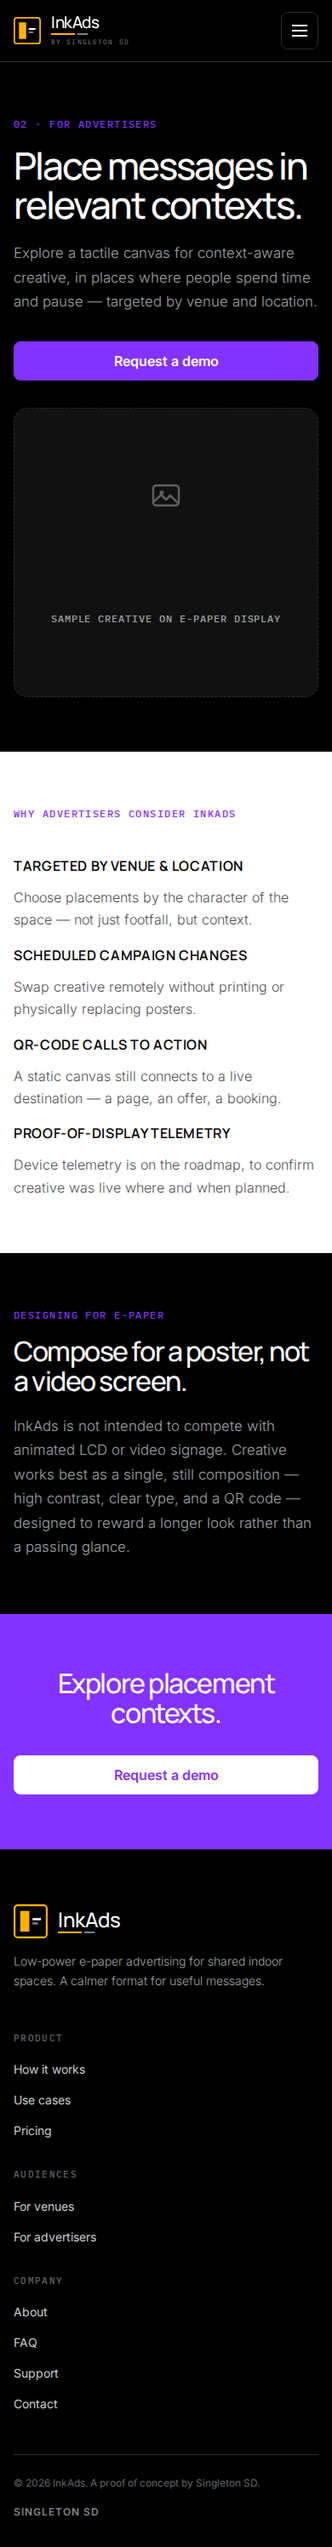
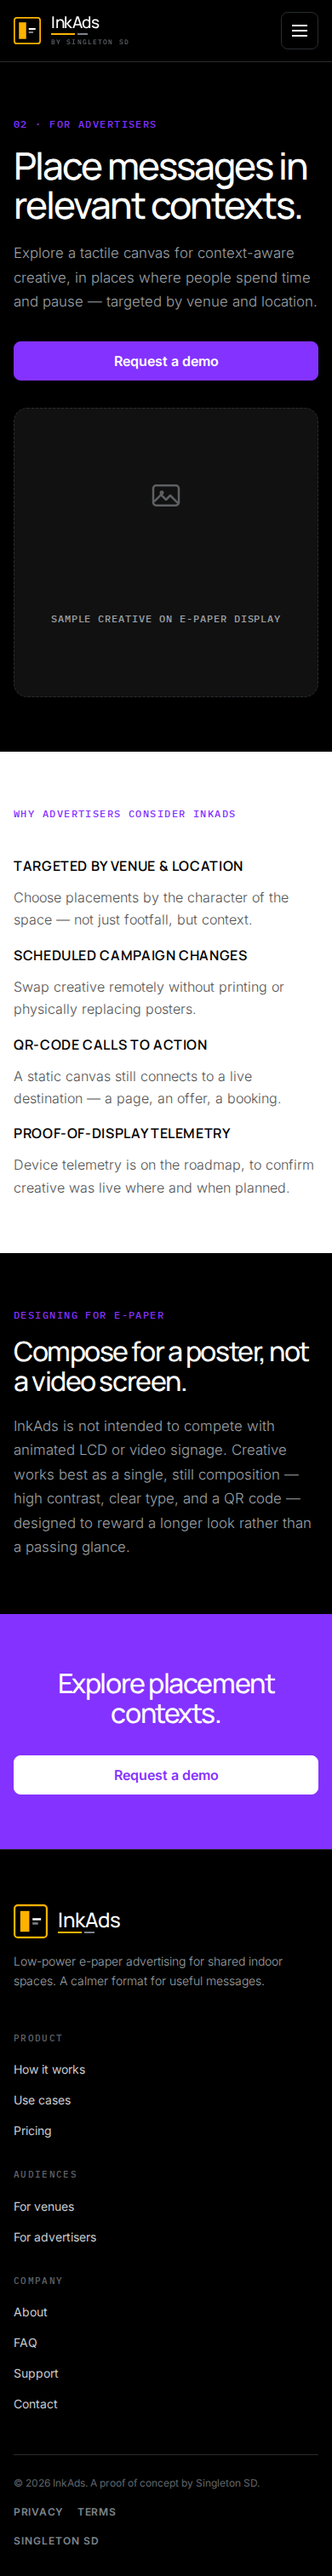
Deploy preview for PR 76 🛫

diff --git a/pr-preview/pr-76/visual/index.html b/pr-preview/pr-76/visual/index.html
@@ -59,95 +59,95 @@
       <button type="button" id="collapse-unchanged">Collapse unchanged</button>
     </p>
   </header>
-  <details class="route-case route-case--review" open>
-  <summary>/ · <span class="changed">14045 px changed</span> (desktop + mobile)</summary>
+  <details class="route-case route-case--unchanged">
+  <summary>/ · unchanged (desktop + mobile)</summary>
   <div class="route-case__body">
 <section class="viewport-case">
-  <h3>desktop · <span class="changed">343 px changed</span></h3>
+  <h3>desktop</h3>
   <div class="grid">
     <figure><figcaption>Base (before)</figcaption><img src="base/home-desktop.png" alt="base / desktop" /></figure>
     <figure><figcaption>PR (after)</figcaption><img src="pr/home-desktop.png" alt="pr / desktop" /></figure>
-    <figure><figcaption>Diff</figcaption><img src="diff/home-desktop.png" alt="diff / desktop" /></figure>
+    <figure><figcaption>Diff</figcaption><p class="ok">No pixel diff</p></figure>
   </div>
 </section>
 <section class="viewport-case">
-  <h3>mobile · <span class="changed">14045 px changed</span></h3>
+  <h3>mobile</h3>
   <div class="grid">
     <figure><figcaption>Base (before)</figcaption><img src="base/home-mobile.png" alt="base / mobile" /></figure>
     <figure><figcaption>PR (after)</figcaption><img src="pr/home-mobile.png" alt="pr / mobile" /></figure>
-    <figure><figcaption>Diff</figcaption><img src="diff/home-mobile.png" alt="diff / mobile" /></figure>
+    <figure><figcaption>Diff</figcaption><p class="ok">No pixel diff</p></figure>
   </div>
 </section>
   </div>
 </details>
-<details class="route-case route-case--review" open>
-  <summary>404 · <span class="changed">14045 px changed</span> (desktop + mobile)</summary>
+<details class="route-case route-case--unchanged">
+  <summary>404 · unchanged (desktop + mobile)</summary>
   <div class="route-case__body">
 <section class="viewport-case">
-  <h3>desktop · <span class="changed">343 px changed</span></h3>
+  <h3>desktop</h3>
   <div class="grid">
     <figure><figcaption>Base (before)</figcaption><img src="base/404-desktop.png" alt="base 404 desktop" /></figure>
     <figure><figcaption>PR (after)</figcaption><img src="pr/404-desktop.png" alt="pr 404 desktop" /></figure>
-    <figure><figcaption>Diff</figcaption><img src="diff/404-desktop.png" alt="diff 404 desktop" /></figure>
+    <figure><figcaption>Diff</figcaption><p class="ok">No pixel diff</p></figure>
   </div>
 </section>
 <section class="viewport-case">
-  <h3>mobile · <span class="changed">14045 px changed</span></h3>
+  <h3>mobile</h3>
   <div class="grid">
     <figure><figcaption>Base (before)</figcaption><img src="base/404-mobile.png" alt="base 404 mobile" /></figure>
     <figure><figcaption>PR (after)</figcaption><img src="pr/404-mobile.png" alt="pr 404 mobile" /></figure>
-    <figure><figcaption>Diff</figcaption><img src="diff/404-mobile.png" alt="diff 404 mobile" /></figure>
+    <figure><figcaption>Diff</figcaption><p class="ok">No pixel diff</p></figure>
   </div>
 </section>
   </div>
 </details>
-<details class="route-case route-case--review" open>
-  <summary>about · <span class="changed">14045 px changed</span> (desktop + mobile)</summary>
+<details class="route-case route-case--unchanged">
+  <summary>about · unchanged (desktop + mobile)</summary>
   <div class="route-case__body">
 <section class="viewport-case">
-  <h3>desktop · <span class="changed">343 px changed</span></h3>
+  <h3>desktop</h3>
   <div class="grid">
     <figure><figcaption>Base (before)</figcaption><img src="base/about-desktop.png" alt="base about desktop" /></figure>
     <figure><figcaption>PR (after)</figcaption><img src="pr/about-desktop.png" alt="pr about desktop" /></figure>
-    <figure><figcaption>Diff</figcaption><img src="diff/about-desktop.png" alt="diff about desktop" /></figure>
+    <figure><figcaption>Diff</figcaption><p class="ok">No pixel diff</p></figure>
   </div>
 </section>
 <section class="viewport-case">
-  <h3>mobile · <span class="changed">14045 px changed</span></h3>
+  <h3>mobile</h3>
   <div class="grid">
     <figure><figcaption>Base (before)</figcaption><img src="base/about-mobile.png" alt="base about mobile" /></figure>
     <figure><figcaption>PR (after)</figcaption><img src="pr/about-mobile.png" alt="pr about mobile" /></figure>
-    <figure><figcaption>Diff</figcaption><img src="diff/about-mobile.png" alt="diff about mobile" /></figure>
+    <figure><figcaption>Diff</figcaption><p class="ok">No pixel diff</p></figure>
   </div>
 </section>
   </div>
 </details>
-<details class="route-case route-case--review" open>
-  <summary>advertisers · <span class="changed">14045 px changed</span> (desktop + mobile)</summary>
+<details class="route-case route-case--unchanged">
+  <summary>advertisers · unchanged (desktop + mobile)</summary>
   <div class="route-case__body">
 <section class="viewport-case">
-  <h3>desktop · <span class="changed">343 px changed</span></h3>
+  <h3>desktop</h3>
   <div class="grid">
     <figure><figcaption>Base (before)</figcaption><img src="base/advertisers-desktop.png" alt="base advertisers desktop" /></figure>
     <figure><figcaption>PR (after)</figcaption><img src="pr/advertisers-desktop.png" alt="pr advertisers desktop" /></figure>
-    <figure><figcaption>Diff</figcaption><img src="diff/advertisers-desktop.png" alt="diff advertisers desktop" /></figure>
+    <figure><figcaption>Diff</figcaption><p class="ok">No pixel diff</p></figure>
   </div>
 </section>
 <section class="viewport-case">
-  <h3>mobile · <span class="changed">14045 px changed</span></h3>
+  <h3>mobile</h3>
   <div class="grid">
     <figure><figcaption>Base (before)</figcaption><img src="base/advertisers-mobile.png" alt="base advertisers mobile" /></figure>
     <figure><figcaption>PR (after)</figcaption><img src="pr/advertisers-mobile.png" alt="pr advertisers mobile" /></figure>
-    <figure><figcaption>Diff</figcaption><img src="diff/advertisers-mobile.png" alt="diff advertisers mobile" /></figure>
+    <figure><figcaption>Diff</figcaption><p class="ok">No pixel diff</p></figure>
   </div>
 </section>
   </div>
 </details>
 <details class="route-case route-case--review" open>
-  <summary>contact · <span class="changed">122155 px changed</span> (desktop + mobile)</summary>
+  <summary>contact · <span class="changed">122426 px changed</span> (desktop + mobile)</summary>
   <div class="route-case__body">
 <section class="viewport-case">
-  <h3>desktop · <span class="changed">122155 px changed</span></h3>
+  <h3>desktop · <span class="changed">122426 px changed</span></h3>
   <div class="grid">
     <figure><figcaption>Base (before)</figcaption><img src="base/contact-desktop.png" alt="base contact desktop" /></figure>
     <figure><figcaption>PR (after)</figcaption><img src="pr/contact-desktop.png" alt="pr contact desktop" /></figure>
@@ -155,7 +155,7 @@
   </div>
 </section>
 <section class="viewport-case">
-  <h3>mobile · <span class="changed">79187 px changed</span></h3>
+  <h3>mobile · <span class="changed">66738 px changed</span></h3>
   <div class="grid">
     <figure><figcaption>Base (before)</figcaption><img src="base/contact-mobile.png" alt="base contact mobile" /></figure>
     <figure><figcaption>PR (after)</figcaption><img src="pr/contact-mobile.png" alt="pr contact mobile" /></figure>
@@ -164,170 +164,170 @@
 </section>
   </div>
 </details>
-<details class="route-case route-case--review" open>
-  <summary>faq · <span class="changed">14045 px changed</span> (desktop + mobile)</summary>
+<details class="route-case route-case--unchanged">
+  <summary>faq · unchanged (desktop + mobile)</summary>
   <div class="route-case__body">
 <section class="viewport-case">
-  <h3>desktop · <span class="changed">343 px changed</span></h3>
+  <h3>desktop</h3>
   <div class="grid">
     <figure><figcaption>Base (before)</figcaption><img src="base/faq-desktop.png" alt="base faq desktop" /></figure>
     <figure><figcaption>PR (after)</figcaption><img src="pr/faq-desktop.png" alt="pr faq desktop" /></figure>
-    <figure><figcaption>Diff</figcaption><img src="diff/faq-desktop.png" alt="diff faq desktop" /></figure>
+    <figure><figcaption>Diff</figcaption><p class="ok">No pixel diff</p></figure>
   </div>
 </section>
 <section class="viewport-case">
-  <h3>mobile · <span class="changed">14045 px changed</span></h3>
+  <h3>mobile</h3>
   <div class="grid">
     <figure><figcaption>Base (before)</figcaption><img src="base/faq-mobile.png" alt="base faq mobile" /></figure>
     <figure><figcaption>PR (after)</figcaption><img src="pr/faq-mobile.png" alt="pr faq mobile" /></figure>
-    <figure><figcaption>Diff</figcaption><img src="diff/faq-mobile.png" alt="diff faq mobile" /></figure>
+    <figure><figcaption>Diff</figcaption><p class="ok">No pixel diff</p></figure>
   </div>
 </section>
   </div>
 </details>
-<details class="route-case route-case--review" open>
-  <summary>how-it-works · <span class="changed">14045 px changed</span> (desktop + mobile)</summary>
+<details class="route-case route-case--unchanged">
+  <summary>how-it-works · unchanged (desktop + mobile)</summary>
   <div class="route-case__body">
 <section class="viewport-case">
-  <h3>desktop · <span class="changed">343 px changed</span></h3>
+  <h3>desktop</h3>
   <div class="grid">
     <figure><figcaption>Base (before)</figcaption><img src="base/how-it-works-desktop.png" alt="base how-it-works desktop" /></figure>
     <figure><figcaption>PR (after)</figcaption><img src="pr/how-it-works-desktop.png" alt="pr how-it-works desktop" /></figure>
-    <figure><figcaption>Diff</figcaption><img src="diff/how-it-works-desktop.png" alt="diff how-it-works desktop" /></figure>
+    <figure><figcaption>Diff</figcaption><p class="ok">No pixel diff</p></figure>
   </div>
 </section>
 <section class="viewport-case">
-  <h3>mobile · <span class="changed">14045 px changed</span></h3>
+  <h3>mobile</h3>
   <div class="grid">
     <figure><figcaption>Base (before)</figcaption><img src="base/how-it-works-mobile.png" alt="base how-it-works mobile" /></figure>
     <figure><figcaption>PR (after)</figcaption><img src="pr/how-it-works-mobile.png" alt="pr how-it-works mobile" /></figure>
-    <figure><figcaption>Diff</figcaption><img src="diff/how-it-works-mobile.png" alt="diff how-it-works mobile" /></figure>
+    <figure><figcaption>Diff</figcaption><p class="ok">No pixel diff</p></figure>
   </div>
 </section>
   </div>
 </details>
-<details class="route-case route-case--review" open>
-  <summary>places · <span class="changed">14045 px changed</span> (desktop + mobile)</summary>
+<details class="route-case route-case--unchanged">
+  <summary>places · unchanged (desktop + mobile)</summary>
   <div class="route-case__body">
 <section class="viewport-case">
-  <h3>desktop · <span class="changed">343 px changed</span></h3>
+  <h3>desktop</h3>
   <div class="grid">
     <figure><figcaption>Base (before)</figcaption><img src="base/places-desktop.png" alt="base places desktop" /></figure>
     <figure><figcaption>PR (after)</figcaption><img src="pr/places-desktop.png" alt="pr places desktop" /></figure>
-    <figure><figcaption>Diff</figcaption><img src="diff/places-desktop.png" alt="diff places desktop" /></figure>
+    <figure><figcaption>Diff</figcaption><p class="ok">No pixel diff</p></figure>
   </div>
 </section>
 <section class="viewport-case">
-  <h3>mobile · <span class="changed">14045 px changed</span></h3>
+  <h3>mobile</h3>
   <div class="grid">
     <figure><figcaption>Base (before)</figcaption><img src="base/places-mobile.png" alt="base places mobile" /></figure>
     <figure><figcaption>PR (after)</figcaption><img src="pr/places-mobile.png" alt="pr places mobile" /></figure>
-    <figure><figcaption>Diff</figcaption><img src="diff/places-mobile.png" alt="diff places mobile" /></figure>
+    <figure><figcaption>Diff</figcaption><p class="ok">No pixel diff</p></figure>
   </div>
 </section>
   </div>
 </details>
-<details class="route-case route-case--review" open>
-  <summary>pricing · <span class="changed">14045 px changed</span> (desktop + mobile)</summary>
+<details class="route-case route-case--unchanged">
+  <summary>pricing · unchanged (desktop + mobile)</summary>
   <div class="route-case__body">
 <section class="viewport-case">
-  <h3>desktop · <span class="changed">343 px changed</span></h3>
+  <h3>desktop</h3>
   <div class="grid">
     <figure><figcaption>Base (before)</figcaption><img src="base/pricing-desktop.png" alt="base pricing desktop" /></figure>
     <figure><figcaption>PR (after)</figcaption><img src="pr/pricing-desktop.png" alt="pr pricing desktop" /></figure>
-    <figure><figcaption>Diff</figcaption><img src="diff/pricing-desktop.png" alt="diff pricing desktop" /></figure>
+    <figure><figcaption>Diff</figcaption><p class="ok">No pixel diff</p></figure>
   </div>
 </section>
 <section class="viewport-case">
-  <h3>mobile · <span class="changed">14045 px changed</span></h3>
+  <h3>mobile</h3>
   <div class="grid">
     <figure><figcaption>Base (before)</figcaption><img src="base/pricing-mobile.png" alt="base pricing mobile" /></figure>
     <figure><figcaption>PR (after)</figcaption><img src="pr/pricing-mobile.png" alt="pr pricing mobile" /></figure>
-    <figure><figcaption>Diff</figcaption><img src="diff/pricing-mobile.png" alt="diff pricing mobile" /></figure>
+    <figure><figcaption>Diff</figcaption><p class="ok">No pixel diff</p></figure>
   </div>
 </section>
   </div>
 </details>
 <details class="route-case route-case--review" open>
-  <summary>privacy · <span class="changed">new route</span> (desktop + mobile)</summary>
+  <summary>privacy · <span class="changed">87832 px changed</span> (desktop + mobile)</summary>
   <div class="route-case__body">
 <section class="viewport-case">
-  <h3>desktop · <span class="changed">new route</span></h3>
+  <h3>desktop · <span class="changed">87832 px changed</span></h3>
   <div class="grid">
-    <figure><figcaption>Base (before — route missing / 404)</figcaption><img src="base/privacy-desktop.png" alt="base privacy desktop" /></figure>
+    <figure><figcaption>Base (before)</figcaption><img src="base/privacy-desktop.png" alt="base privacy desktop" /></figure>
     <figure><figcaption>PR (after)</figcaption><img src="pr/privacy-desktop.png" alt="pr privacy desktop" /></figure>
     <figure><figcaption>Diff</figcaption><img src="diff/privacy-desktop.png" alt="diff privacy desktop" /></figure>
   </div>
 </section>
 <section class="viewport-case">
-  <h3>mobile · <span class="changed">new route</span></h3>
+  <h3>mobile · <span class="changed">62661 px changed</span></h3>
   <div class="grid">
-    <figure><figcaption>Base (before — route missing / 404)</figcaption><img src="base/privacy-mobile.png" alt="base privacy mobile" /></figure>
+    <figure><figcaption>Base (before)</figcaption><img src="base/privacy-mobile.png" alt="base privacy mobile" /></figure>
     <figure><figcaption>PR (after)</figcaption><img src="pr/privacy-mobile.png" alt="pr privacy mobile" /></figure>
     <figure><figcaption>Diff</figcaption><img src="diff/privacy-mobile.png" alt="diff privacy mobile" /></figure>
   </div>
 </section>
   </div>
 </details>
-<details class="route-case route-case--review" open>
-  <summary>support · <span class="changed">14045 px changed</span> (desktop + mobile)</summary>
+<details class="route-case route-case--unchanged">
+  <summary>support · unchanged (desktop + mobile)</summary>
   <div class="route-case__body">
 <section class="viewport-case">
-  <h3>desktop · <span class="changed">343 px changed</span></h3>
+  <h3>desktop</h3>
   <div class="grid">
     <figure><figcaption>Base (before)</figcaption><img src="base/support-desktop.png" alt="base support desktop" /></figure>
     <figure><figcaption>PR (after)</figcaption><img src="pr/support-desktop.png" alt="pr support desktop" /></figure>
-    <figure><figcaption>Diff</figcaption><img src="diff/support-desktop.png" alt="diff support desktop" /></figure>
+    <figure><figcaption>Diff</figcaption><p class="ok">No pixel diff</p></figure>
   </div>
 </section>
 <section class="viewport-case">
-  <h3>mobile · <span class="changed">14045 px changed</span></h3>
+  <h3>mobile</h3>
   <div class="grid">
     <figure><figcaption>Base (before)</figcaption><img src="base/support-mobile.png" alt="base support mobile" /></figure>
     <figure><figcaption>PR (after)</figcaption><img src="pr/support-mobile.png" alt="pr support mobile" /></figure>
-    <figure><figcaption>Diff</figcaption><img src="diff/support-mobile.png" alt="diff support mobile" /></figure>
+    <figure><figcaption>Diff</figcaption><p class="ok">No pixel diff</p></figure>
   </div>
 </section>
   </div>
 </details>
-<details class="route-case route-case--review" open>
-  <summary>terms · <span class="changed">new route</span> (desktop + mobile)</summary>
+<details class="route-case route-case--unchanged">
+  <summary>terms · unchanged (desktop + mobile)</summary>
   <div class="route-case__body">
 <section class="viewport-case">
-  <h3>desktop · <span class="changed">new route</span></h3>
+  <h3>desktop</h3>
   <div class="grid">
-    <figure><figcaption>Base (before — route missing / 404)</figcaption><img src="base/terms-desktop.png" alt="base terms desktop" /></figure>
+    <figure><figcaption>Base (before)</figcaption><img src="base/terms-desktop.png" alt="base terms desktop" /></figure>
     <figure><figcaption>PR (after)</figcaption><img src="pr/terms-desktop.png" alt="pr terms desktop" /></figure>
-    <figure><figcaption>Diff</figcaption><img src="diff/terms-desktop.png" alt="diff terms desktop" /></figure>
+    <figure><figcaption>Diff</figcaption><p class="ok">No pixel diff</p></figure>
   </div>
 </section>
 <section class="viewport-case">
-  <h3>mobile · <span class="changed">new route</span></h3>
+  <h3>mobile</h3>
   <div class="grid">
-    <figure><figcaption>Base (before — route missing / 404)</figcaption><img src="base/terms-mobile.png" alt="base terms mobile" /></figure>
+    <figure><figcaption>Base (before)</figcaption><img src="base/terms-mobile.png" alt="base terms mobile" /></figure>
     <figure><figcaption>PR (after)</figcaption><img src="pr/terms-mobile.png" alt="pr terms mobile" /></figure>
-    <figure><figcaption>Diff</figcaption><img src="diff/terms-mobile.png" alt="diff terms mobile" /></figure>
+    <figure><figcaption>Diff</figcaption><p class="ok">No pixel diff</p></figure>
   </div>
 </section>
   </div>
 </details>
-<details class="route-case route-case--review" open>
-  <summary>venues · <span class="changed">14045 px changed</span> (desktop + mobile)</summary>
+<details class="route-case route-case--unchanged">
+  <summary>venues · unchanged (desktop + mobile)</summary>
   <div class="route-case__body">
 <section class="viewport-case">
-  <h3>desktop · <span class="changed">343 px changed</span></h3>
+  <h3>desktop</h3>
   <div class="grid">
     <figure><figcaption>Base (before)</figcaption><img src="base/venues-desktop.png" alt="base venues desktop" /></figure>
     <figure><figcaption>PR (after)</figcaption><img src="pr/venues-desktop.png" alt="pr venues desktop" /></figure>
-    <figure><figcaption>Diff</figcaption><img src="diff/venues-desktop.png" alt="diff venues desktop" /></figure>
+    <figure><figcaption>Diff</figcaption><p class="ok">No pixel diff</p></figure>
   </div>
 </section>
 <section class="viewport-case">
-  <h3>mobile · <span class="changed">14045 px changed</span></h3>
+  <h3>mobile</h3>
   <div class="grid">
     <figure><figcaption>Base (before)</figcaption><img src="base/venues-mobile.png" alt="base venues mobile" /></figure>
     <figure><figcaption>PR (after)</figcaption><img src="pr/venues-mobile.png" alt="pr venues mobile" /></figure>
-    <figure><figcaption>Diff</figcaption><img src="diff/venues-mobile.png" alt="diff venues mobile" /></figure>
+    <figure><figcaption>Diff</figcaption><p class="ok">No pixel diff</p></figure>
   </div>
 </section>
   </div>

diff --git a/pr-preview/pr-76/advertisers/index.html b/pr-preview/pr-76/advertisers/index.html
@@ -1,3 +1,3 @@
 <!DOCTYPE html><html lang="en-AU"><head><meta charset="utf-8"><meta name="viewport" content="width=device-width"><meta name="generator" content="Astro v7.2.3"><meta name="description" content="Place messages in relevant contexts with InkAds e-paper advertising for shared indoor spaces."><meta name="robots" content="index,follow"><meta name="theme-color" content="#ffb300"><link rel="canonical" href="https://inkads.poc.singletonsd.com/pr-preview/pr-76/advertisers/"><link rel="icon" type="image/svg+xml" href="/pr-preview/pr-76/favicon.svg"><link rel="icon" type="image/x-icon" href="/pr-preview/pr-76/favicon.ico"><title>Advertisers | InkAds</title><!-- Open Graph --><meta property="og:title" content="Advertisers | InkAds"><meta property="og:description" content="Place messages in relevant contexts with InkAds e-paper advertising for shared indoor spaces."><meta property="og:url" content="https://inkads.poc.singletonsd.com/pr-preview/pr-76/advertisers/"><meta property="og:type" content="website"><meta property="og:site_name" content="InkAds"><meta property="og:image" content="https://inkads.poc.singletonsd.com/favicon.svg"><meta property="og:image:alt" content="InkAds logo"><!-- Twitter --><meta name="twitter:card" content="summary_large_image"><meta name="twitter:title" content="Advertisers | InkAds"><meta name="twitter:description" content="Place messages in relevant contexts with InkAds e-paper advertising for shared indoor spaces."><meta name="twitter:image" content="https://inkads.poc.singletonsd.com/favicon.svg"><meta name="twitter:image:alt" content="InkAds logo"><!-- Structured data --><script type="application/ld+json">{"@context":"https://schema.org","@type":"WebSite","url":"https://inkads.poc.singletonsd.com/pr-preview/pr-76/advertisers/","name":"InkAds","description":"Place messages in relevant contexts with InkAds e-paper advertising for shared indoor spaces."}</script><style>.section-heading[data-astro-cid-ypavld2q] h2[data-astro-cid-ypavld2q]{margin-top:1rem;font-size:clamp(2rem,5vw,3rem);font-weight:500;line-height:1.1}.section-heading--center[data-astro-cid-ypavld2q]{text-align:center;max-width:none}.section-heading--center[data-astro-cid-ypavld2q] .section-heading__lead[data-astro-cid-ypavld2q]{margin-inline:auto}
 </style><link rel="stylesheet" href="/pr-preview/pr-76/_astro/BaseLayout.c0bYeWr0.css"><style>.designing-section{padding-block:var(--ink-space-section)}
-</style></head><body><a class="skip-link" href="#main-content">Skip to content</a><header class="site-header" data-astro-cid-fzpbxy5g><div class="shell site-header__inner" data-astro-cid-fzpbxy5g><a class="brand-lockup" href="/pr-preview/pr-76/" aria-label="InkAds home"><img class="brand-lockup__icon" src="/pr-preview/pr-76/brand/icon-dark.svg" alt="" width="32" height="32"><span class="brand-lockup__text"><span class="brand-lockup__wordmark">InkAds</span><span class="brand-lockup__underline" aria-hidden="true"><span></span><span></span></span><span class="brand-lockup__byline">by Singleton SD</span></span></a><button class="site-header__menu-toggle" type="button" aria-expanded="false" aria-controls="site-primary-nav" data-nav-toggle data-astro-cid-fzpbxy5g><span class="sr-only" data-astro-cid-fzpbxy5g>Menu</span><span aria-hidden="true" data-astro-cid-fzpbxy5g></span></button><nav id="site-primary-nav" class="site-header__nav" aria-label="Primary navigation" data-nav-panel data-astro-cid-fzpbxy5g><div class="site-header__links" data-astro-cid-fzpbxy5g><a href="/pr-preview/pr-76/how-it-works" data-astro-cid-fzpbxy5g>How it works</a><a href="/pr-preview/pr-76/places" data-astro-cid-fzpbxy5g>Use cases</a><a href="/pr-preview/pr-76/venues" data-astro-cid-fzpbxy5g>Venues</a><a href="/pr-preview/pr-76/advertisers" aria-current="page" data-astro-cid-fzpbxy5g>Advertisers</a><a href="/pr-preview/pr-76/pricing" data-astro-cid-fzpbxy5g>Pricing</a><a href="/pr-preview/pr-76/about" data-astro-cid-fzpbxy5g>About</a></div><a class="button-link button-link--primary" href="/pr-preview/pr-76/contact"><span>Request a demo</span></a></nav></div></header><script type="module">function e(){let e=document.querySelector(`[data-nav-toggle]`),t=document.querySelector(`[data-nav-panel]`);!e||!t||e.addEventListener(`click`,()=>{let n=t.classList.toggle(`is-open`);e.setAttribute(`aria-expanded`,n?`true`:`false`)})}e(),document.addEventListener(`astro:page-load`,e);</script><main id="main-content"><section class="shell" aria-labelledby="page-title"><div class="page-hero page-hero--split" data-astro-cid-ypavld2q><div data-astro-cid-ypavld2q><p class="eyebrow eyebrow--audience" data-astro-cid-ypavld2q>02 · For advertisers</p><h1 id="page-title" data-astro-cid-ypavld2q="true">Place messages in relevant contexts.</h1><p class="page-hero__lead" data-astro-cid-ypavld2q>Explore a tactile canvas for context-aware creative, in places where people spend time and pause — targeted by venue and location.</p><div class="page-hero__actions" data-astro-cid-ypavld2q><a class="button-link button-link--audience" href="/pr-preview/pr-76/contact"><span>Request a demo</span></a></div></div><figure class="media-placeholder" style="min-height: 340px"><svg class="media-placeholder__icon" viewBox="0 0 24 24" fill="none" aria-hidden="true"><rect x="3" y="5" width="18" height="14" rx="2" stroke="currentColor" stroke-width="1.5"></rect><circle cx="9" cy="10" r="1.5" fill="currentColor"></circle><path d="M4 16l4.5-4.5L12 15l3-3 5 5" stroke="currentColor" stroke-width="1.5" stroke-linecap="round" stroke-linejoin="round"></path></svg><figcaption class="media-placeholder__label">Sample creative on e-paper display</figcaption></figure></div></section><section class="inverse-section" aria-labelledby="benefits-title"><div class="shell"><p class="eyebrow eyebrow--audience">Why advertisers consider InkAds</p><h2 id="benefits-title" class="sr-only">Why advertisers consider InkAds</h2><div class="feature-grid"><article class="feature-item"><h3>Targeted by venue &amp; location</h3><p>Choose placements by the character of the space — not just footfall, but context.</p></article><article class="feature-item"><h3>Scheduled campaign changes</h3><p>Swap creative remotely without printing or physically replacing posters.</p></article><article class="feature-item"><h3>QR-code calls to action</h3><p>A static canvas still connects to a live destination — a page, an offer, a booking.</p></article><article class="feature-item"><h3>Proof-of-display telemetry</h3><p>Device telemetry is on the roadmap, to confirm creative was live where and when planned.</p></article></div></div></section><section class="shell designing-section" aria-labelledby="designing-title"><div class="section-heading" data-astro-cid-ypavld2q><div data-astro-cid-ypavld2q><p class="eyebrow eyebrow--audience" data-astro-cid-ypavld2q>Designing for e-paper</p><h2 id="designing-title" data-astro-cid-ypavld2q="true">Compose for a poster, not a video screen.</h2><p class="section-heading__lead" data-astro-cid-ypavld2q>InkAds is not intended to compete with animated LCD or video signage. Creative works best as a single, still composition — high contrast, clear type, and a QR code — designed to reward a longer look rather than a passing glance.</p></div></div></section><section class="cta-band cta-band--audience" aria-labelledby="cta-title-fc4b38aa"><div class="shell"><h2 id="cta-title-fc4b38aa">Explore placement contexts.</h2><div class="cta-band__actions"><a class="button-link button-link--on-audience" href="/pr-preview/pr-76/contact"><span>Request a demo</span></a></div></div></section></main><footer class="site-footer"><div class="shell"><div class="site-footer__top"><div class="site-footer__brand"><a class="brand-lockup brand-lockup--footer" href="/pr-preview/pr-76/" aria-label="InkAds home"><img class="brand-lockup__icon" src="/pr-preview/pr-76/brand/icon-dark.svg" alt="" width="40" height="40"><span class="brand-lockup__text"><span class="brand-lockup__wordmark">InkAds</span><span class="brand-lockup__underline" aria-hidden="true"><span></span><span></span></span></span></a><p class="site-footer__tagline">Low-power e-paper advertising for shared indoor spaces. A calmer format for useful messages.</p></div><nav class="site-footer__columns" aria-label="Footer"><div class="site-footer__column"><h2>Product</h2><ul><li><a href="/pr-preview/pr-76/how-it-works">How it works</a></li><li><a href="/pr-preview/pr-76/places">Use cases</a></li><li><a href="/pr-preview/pr-76/pricing">Pricing</a></li></ul></div><div class="site-footer__column"><h2>Audiences</h2><ul><li><a href="/pr-preview/pr-76/venues">For venues</a></li><li><a href="/pr-preview/pr-76/advertisers">For advertisers</a></li></ul></div><div class="site-footer__column"><h2>Company</h2><ul><li><a href="/pr-preview/pr-76/about">About</a></li><li><a href="/pr-preview/pr-76/faq">FAQ</a></li><li><a href="/pr-preview/pr-76/support">Support</a></li><li><a href="/pr-preview/pr-76/contact">Contact</a></li></ul></div></nav></div><div class="site-footer__legal"><p>© 2026 InkAds. A proof of concept by Singleton SD.</p><nav class="site-footer__policy-links" aria-label="Legal"><a href="/pr-preview/pr-76/privacy">Privacy</a><a href="/pr-preview/pr-76/terms">Terms</a></nav><a class="site-footer__credit" href="https://singletonsd.com" rel="noreferrer">Singleton SD</a></div></div></footer></body></html>
+</style></head><body><a class="skip-link" href="#main-content">Skip to content</a><header class="site-header" data-astro-cid-fzpbxy5g><div class="shell site-header__inner" data-astro-cid-fzpbxy5g><a class="brand-lockup" href="/pr-preview/pr-76/" aria-label="InkAds home"><img class="brand-lockup__icon" src="/pr-preview/pr-76/brand/icon-dark.svg" alt="" width="32" height="32"><span class="brand-lockup__text"><span class="brand-lockup__wordmark">InkAds</span><span class="brand-lockup__underline" aria-hidden="true"><span></span><span></span></span><span class="brand-lockup__byline">by Singleton SD</span></span></a><button class="site-header__menu-toggle" type="button" aria-expanded="false" aria-controls="site-primary-nav" data-nav-toggle data-astro-cid-fzpbxy5g><span class="sr-only" data-astro-cid-fzpbxy5g>Menu</span><span aria-hidden="true" data-astro-cid-fzpbxy5g></span></button><nav id="site-primary-nav" class="site-header__nav" aria-label="Primary navigation" data-nav-panel data-astro-cid-fzpbxy5g><div class="site-header__links" data-astro-cid-fzpbxy5g><a href="/pr-preview/pr-76/how-it-works" data-astro-cid-fzpbxy5g>How it works</a><a href="/pr-preview/pr-76/places" data-astro-cid-fzpbxy5g>Use cases</a><a href="/pr-preview/pr-76/venues" data-astro-cid-fzpbxy5g>Venues</a><a href="/pr-preview/pr-76/advertisers" aria-current="page" data-astro-cid-fzpbxy5g>Advertisers</a><a href="/pr-preview/pr-76/pricing" data-astro-cid-fzpbxy5g>Pricing</a><a href="/pr-preview/pr-76/about" data-astro-cid-fzpbxy5g>About</a></div><a class="button-link button-link--primary" href="/pr-preview/pr-76/contact"><span>Request a demo</span></a></nav></div></header><script type="module">function e(){let e=document.querySelector(`[data-nav-toggle]`),t=document.querySelector(`[data-nav-panel]`);!e||!t||e.addEventListener(`click`,()=>{let n=t.classList.toggle(`is-open`);e.setAttribute(`aria-expanded`,n?`true`:`false`)})}e(),document.addEventListener(`astro:page-load`,e);</script><main id="main-content"><section class="shell" aria-labelledby="page-title"><div class="page-hero page-hero--split" data-astro-cid-ypavld2q><div data-astro-cid-ypavld2q><p class="eyebrow eyebrow--audience" data-astro-cid-ypavld2q>02 · For advertisers</p><h1 id="page-title" data-astro-cid-ypavld2q="true">Place messages in relevant contexts.</h1><p class="page-hero__lead" data-astro-cid-ypavld2q>Explore a tactile canvas for context-aware creative, in places where people spend time and pause — targeted by venue and location.</p><div class="page-hero__actions" data-astro-cid-ypavld2q><a class="button-link button-link--audience" href="/pr-preview/pr-76/contact"><span>Request a demo</span></a></div></div><figure class="media-placeholder" style="min-height: 340px"><svg class="media-placeholder__icon" viewBox="0 0 24 24" fill="none" aria-hidden="true"><rect x="3" y="5" width="18" height="14" rx="2" stroke="currentColor" stroke-width="1.5"></rect><circle cx="9" cy="10" r="1.5" fill="currentColor"></circle><path d="M4 16l4.5-4.5L12 15l3-3 5 5" stroke="currentColor" stroke-width="1.5" stroke-linecap="round" stroke-linejoin="round"></path></svg><figcaption class="media-placeholder__label">Sample creative on e-paper display</figcaption></figure></div></section><section class="inverse-section" aria-labelledby="benefits-title"><div class="shell"><p class="eyebrow eyebrow--audience">Why advertisers consider InkAds</p><h2 id="benefits-title" class="sr-only">Why advertisers consider InkAds</h2><div class="feature-grid"><article class="feature-item"><h3>Targeted by venue &amp; location</h3><p>Choose placements by the character of the space — not just footfall, but context.</p></article><article class="feature-item"><h3>Scheduled campaign changes</h3><p>Swap creative remotely without printing or physically replacing posters.</p></article><article class="feature-item"><h3>QR-code calls to action</h3><p>A static canvas still connects to a live destination — a page, an offer, a booking.</p></article><article class="feature-item"><h3>Proof-of-display telemetry</h3><p>Device telemetry is on the roadmap, to confirm creative was live where and when planned.</p></article></div></div></section><section class="shell designing-section" aria-labelledby="designing-title"><div class="section-heading" data-astro-cid-ypavld2q><div data-astro-cid-ypavld2q><p class="eyebrow eyebrow--audience" data-astro-cid-ypavld2q>Designing for e-paper</p><h2 id="designing-title" data-astro-cid-ypavld2q="true">Compose for a poster, not a video screen.</h2><p class="section-heading__lead" data-astro-cid-ypavld2q>InkAds is not intended to compete with animated LCD or video signage. Creative works best as a single, still composition — high contrast, clear type, and a QR code — designed to reward a longer look rather than a passing glance.</p></div></div></section><section class="cta-band cta-band--audience" aria-labelledby="cta-title-ab40c301"><div class="shell"><h2 id="cta-title-ab40c301">Explore placement contexts.</h2><div class="cta-band__actions"><a class="button-link button-link--on-audience" href="/pr-preview/pr-76/contact"><span>Request a demo</span></a></div></div></section></main><footer class="site-footer"><div class="shell"><div class="site-footer__top"><div class="site-footer__brand"><a class="brand-lockup brand-lockup--footer" href="/pr-preview/pr-76/" aria-label="InkAds home"><img class="brand-lockup__icon" src="/pr-preview/pr-76/brand/icon-dark.svg" alt="" width="40" height="40"><span class="brand-lockup__text"><span class="brand-lockup__wordmark">InkAds</span><span class="brand-lockup__underline" aria-hidden="true"><span></span><span></span></span></span></a><p class="site-footer__tagline">Low-power e-paper advertising for shared indoor spaces. A calmer format for useful messages.</p></div><nav class="site-footer__columns" aria-label="Footer"><div class="site-footer__column"><h2>Product</h2><ul><li><a href="/pr-preview/pr-76/how-it-works">How it works</a></li><li><a href="/pr-preview/pr-76/places">Use cases</a></li><li><a href="/pr-preview/pr-76/pricing">Pricing</a></li></ul></div><div class="site-footer__column"><h2>Audiences</h2><ul><li><a href="/pr-preview/pr-76/venues">For venues</a></li><li><a href="/pr-preview/pr-76/advertisers">For advertisers</a></li></ul></div><div class="site-footer__column"><h2>Company</h2><ul><li><a href="/pr-preview/pr-76/about">About</a></li><li><a href="/pr-preview/pr-76/faq">FAQ</a></li><li><a href="/pr-preview/pr-76/support">Support</a></li><li><a href="/pr-preview/pr-76/contact">Contact</a></li></ul></div></nav></div><div class="site-footer__legal"><p>© 2026 InkAds. A proof of concept by Singleton SD.</p><nav class="site-footer__policy-links" aria-label="Legal"><a href="/pr-preview/pr-76/privacy">Privacy</a><a href="/pr-preview/pr-76/terms">Terms</a></nav><a class="site-footer__credit" href="https://singletonsd.com" rel="noreferrer">Singleton SD</a></div></div></footer></body></html>

diff --git a/pr-preview/pr-76/support/index.html b/pr-preview/pr-76/support/index.html
@@ -6,4 +6,4 @@ InkAds Entra sign-in experience and related product surfaces.</p>
 <p>During the proof of concept, support is provided by the Singleton SD team — not
 a dedicated ticketing portal. Reach out if you need help with device sign-in,
 venue or advertiser questions, or general product orientation.</p>
-</div></section><section class="shell support-section" aria-labelledby="support-help-title"><div class="section-heading" data-astro-cid-ypavld2q><div data-astro-cid-ypavld2q><p class="eyebrow" data-astro-cid-ypavld2q>How we can help</p><h2 id="support-help-title" data-astro-cid-ypavld2q="true">Practical questions during the pilot.</h2><p class="section-heading__lead" data-astro-cid-ypavld2q>We can point you toward the right next step for sign-in, placement context, or a conversation about the concept.</p></div></div><ul class="process-list"><li class="process-row"><span class="process-row__label">Sign-in help</span><p>Questions about accessing InkAds through the display device flow or related Microsoft Entra sign-in.</p></li><li class="process-row"><span class="process-row__label">Pilot orientation</span><p>Clarifying what the proof of concept covers for venues and advertisers — without unvalidated claims.</p></li><li class="process-row"><span class="process-row__label">General contact</span><p>Anything else about InkAds or Singleton SD can start with a short message via email or the contact page.</p></li></ul></section><section class="shell support-section" aria-labelledby="support-contact-title"><div class="section-heading" data-astro-cid-ypavld2q><div data-astro-cid-ypavld2q><p class="eyebrow" data-astro-cid-ypavld2q>Contact path</p><h2 id="support-contact-title" data-astro-cid-ypavld2q="true">Reach the team.</h2><p class="section-heading__lead" data-astro-cid-ypavld2q>This proof of concept uses email and the contact page only — no support portal.</p></div></div><div class="support-contact"><div class="meta-pair"><p class="meta-pair__label">Email</p><p class="meta-pair__value"><a href="mailto:hello@inkads.poc.singletonsd.com">hello@inkads.poc.singletonsd.com</a></p></div><div class="meta-pair"><p class="meta-pair__label">Status</p><p class="meta-pair__value">Proof of concept · Singleton SD</p></div><p class="support-contact__link"><a class="text-link" href="/pr-preview/pr-76/contact"><span>Or use the contact page</span><span aria-hidden="true">→</span></a></p></div></section><section class="cta-band cta-band--brand" aria-labelledby="cta-title-953bc37c"><div class="shell"><h2 id="cta-title-953bc37c">Need a longer conversation?</h2><div class="cta-band__actions"><a class="button-link button-link--inverse" href="mailto:hello@inkads.poc.singletonsd.com"><span>Email support</span></a><a class="button-link button-link--ghost-inverse" href="/pr-preview/pr-76/contact"><span>Go to contact</span></a></div></div></section></main><footer class="site-footer"><div class="shell"><div class="site-footer__top"><div class="site-footer__brand"><a class="brand-lockup brand-lockup--footer" href="/pr-preview/pr-76/" aria-label="InkAds home"><img class="brand-lockup__icon" src="/pr-preview/pr-76/brand/icon-dark.svg" alt="" width="40" height="40"><span class="brand-lockup__text"><span class="brand-lockup__wordmark">InkAds</span><span class="brand-lockup__underline" aria-hidden="true"><span></span><span></span></span></span></a><p class="site-footer__tagline">Low-power e-paper advertising for shared indoor spaces. A calmer format for useful messages.</p></div><nav class="site-footer__columns" aria-label="Footer"><div class="site-footer__column"><h2>Product</h2><ul><li><a href="/pr-preview/pr-76/how-it-works">How it works</a></li><li><a href="/pr-preview/pr-76/places">Use cases</a></li><li><a href="/pr-preview/pr-76/pricing">Pricing</a></li></ul></div><div class="site-footer__column"><h2>Audiences</h2><ul><li><a href="/pr-preview/pr-76/venues">For venues</a></li><li><a href="/pr-preview/pr-76/advertisers">For advertisers</a></li></ul></div><div class="site-footer__column"><h2>Company</h2><ul><li><a href="/pr-preview/pr-76/about">About</a></li><li><a href="/pr-preview/pr-76/faq">FAQ</a></li><li><a href="/pr-preview/pr-76/support">Support</a></li><li><a href="/pr-preview/pr-76/contact">Contact</a></li></ul></div></nav></div><div class="site-footer__legal"><p>© 2026 InkAds. A proof of concept by Singleton SD.</p><nav class="site-footer__policy-links" aria-label="Legal"><a href="/pr-preview/pr-76/privacy">Privacy</a><a href="/pr-preview/pr-76/terms">Terms</a></nav><a class="site-footer__credit" href="https://singletonsd.com" rel="noreferrer">Singleton SD</a></div></div></footer></body></html>
+</div></section><section class="shell support-section" aria-labelledby="support-help-title"><div class="section-heading" data-astro-cid-ypavld2q><div data-astro-cid-ypavld2q><p class="eyebrow" data-astro-cid-ypavld2q>How we can help</p><h2 id="support-help-title" data-astro-cid-ypavld2q="true">Practical questions during the pilot.</h2><p class="section-heading__lead" data-astro-cid-ypavld2q>We can point you toward the right next step for sign-in, placement context, or a conversation about the concept.</p></div></div><ul class="process-list"><li class="process-row"><span class="process-row__label">Sign-in help</span><p>Questions about accessing InkAds through the display device flow or related Microsoft Entra sign-in.</p></li><li class="process-row"><span class="process-row__label">Pilot orientation</span><p>Clarifying what the proof of concept covers for venues and advertisers — without unvalidated claims.</p></li><li class="process-row"><span class="process-row__label">General contact</span><p>Anything else about InkAds or Singleton SD can start with a short message via email or the contact page.</p></li></ul></section><section class="shell support-section" aria-labelledby="support-contact-title"><div class="section-heading" data-astro-cid-ypavld2q><div data-astro-cid-ypavld2q><p class="eyebrow" data-astro-cid-ypavld2q>Contact path</p><h2 id="support-contact-title" data-astro-cid-ypavld2q="true">Reach the team.</h2><p class="section-heading__lead" data-astro-cid-ypavld2q>This proof of concept uses email and the contact page only — no support portal.</p></div></div><div class="support-contact"><div class="meta-pair"><p class="meta-pair__label">Email</p><p class="meta-pair__value"><a href="mailto:hello@inkads.poc.singletonsd.com">hello@inkads.poc.singletonsd.com</a></p></div><div class="meta-pair"><p class="meta-pair__label">Status</p><p class="meta-pair__value">Proof of concept · Singleton SD</p></div><p class="support-contact__link"><a class="text-link" href="/pr-preview/pr-76/contact"><span>Or use the contact page</span><span aria-hidden="true">→</span></a></p></div></section><section class="cta-band cta-band--brand" aria-labelledby="cta-title-23811121"><div class="shell"><h2 id="cta-title-23811121">Need a longer conversation?</h2><div class="cta-band__actions"><a class="button-link button-link--inverse" href="mailto:hello@inkads.poc.singletonsd.com"><span>Email support</span></a><a class="button-link button-link--ghost-inverse" href="/pr-preview/pr-76/contact"><span>Go to contact</span></a></div></div></section></main><footer class="site-footer"><div class="shell"><div class="site-footer__top"><div class="site-footer__brand"><a class="brand-lockup brand-lockup--footer" href="/pr-preview/pr-76/" aria-label="InkAds home"><img class="brand-lockup__icon" src="/pr-preview/pr-76/brand/icon-dark.svg" alt="" width="40" height="40"><span class="brand-lockup__text"><span class="brand-lockup__wordmark">InkAds</span><span class="brand-lockup__underline" aria-hidden="true"><span></span><span></span></span></span></a><p class="site-footer__tagline">Low-power e-paper advertising for shared indoor spaces. A calmer format for useful messages.</p></div><nav class="site-footer__columns" aria-label="Footer"><div class="site-footer__column"><h2>Product</h2><ul><li><a href="/pr-preview/pr-76/how-it-works">How it works</a></li><li><a href="/pr-preview/pr-76/places">Use cases</a></li><li><a href="/pr-preview/pr-76/pricing">Pricing</a></li></ul></div><div class="site-footer__column"><h2>Audiences</h2><ul><li><a href="/pr-preview/pr-76/venues">For venues</a></li><li><a href="/pr-preview/pr-76/advertisers">For advertisers</a></li></ul></div><div class="site-footer__column"><h2>Company</h2><ul><li><a href="/pr-preview/pr-76/about">About</a></li><li><a href="/pr-preview/pr-76/faq">FAQ</a></li><li><a href="/pr-preview/pr-76/support">Support</a></li><li><a href="/pr-preview/pr-76/contact">Contact</a></li></ul></div></nav></div><div class="site-footer__legal"><p>© 2026 InkAds. A proof of concept by Singleton SD.</p><nav class="site-footer__policy-links" aria-label="Legal"><a href="/pr-preview/pr-76/privacy">Privacy</a><a href="/pr-preview/pr-76/terms">Terms</a></nav><a class="site-footer__credit" href="https://singletonsd.com" rel="noreferrer">Singleton SD</a></div></div></footer></body></html>
